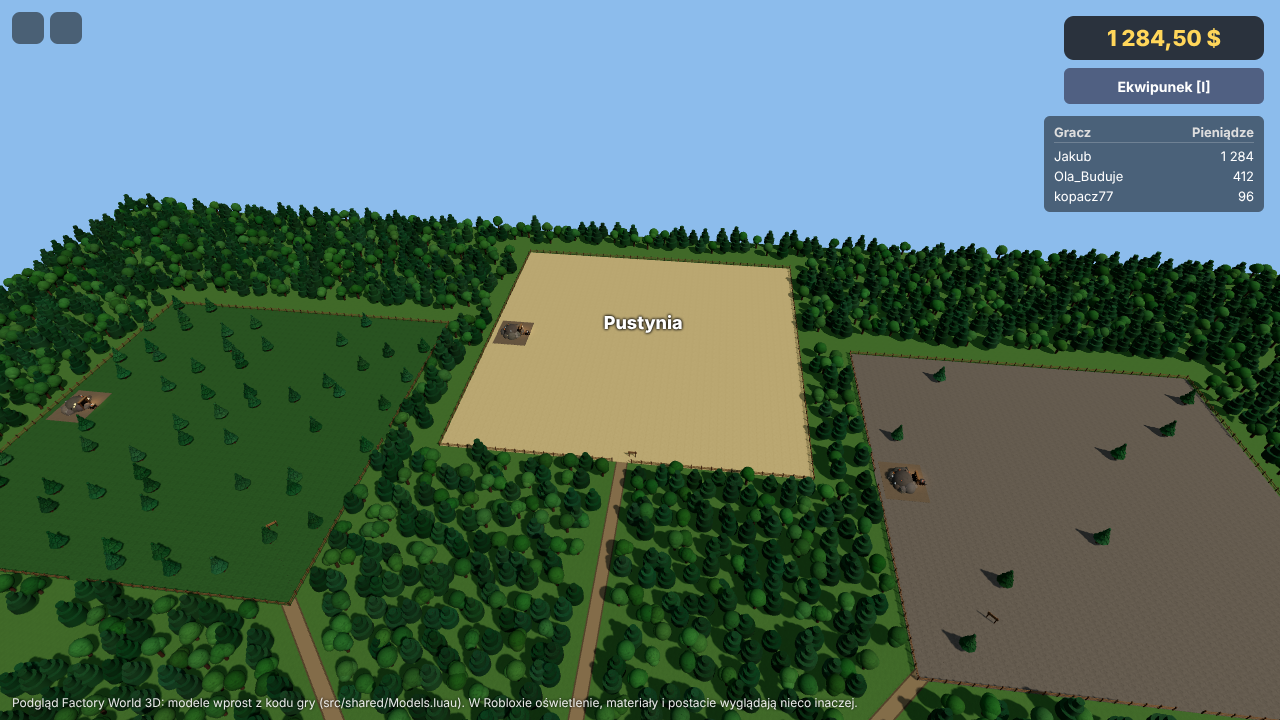
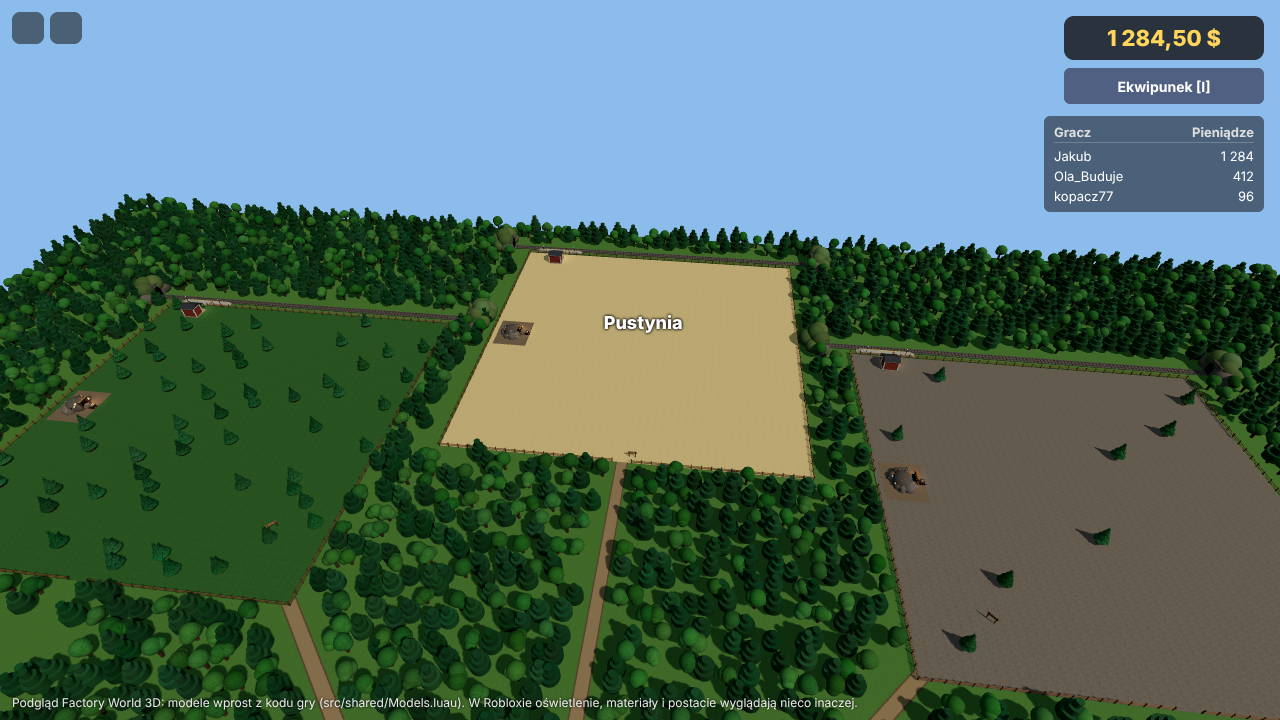
Add trains between a player's own plots
Every plot now has its railway station and track. The station window
lists the player's other plots first: a train there takes 20 s and
costs the fixed 1 $, and its goods reach that plot's station even when
the plot is not shown. Routes start from the plot they were added on and
can go to an own plot; a hidden plot is worked out up to now before a
train leaves it. Trains from other players still arrive at the home
plot. Existing bought plots get their station when the profile loads.

Claude-Session: https://claude.ai/code/session_015q7rLHNJ66CFDjTGWXE1aJ

diff --git a/tools/preview/scene.js b/tools/preview/scene.js
@@ -62,14 +62,11 @@ function plot(index, opts = {}) {
   const [cx, cz] = center(index);
   const objects = [];
   if (!opts.biome) objects.push({ at: [cx, 0, cz], parts: [block([L.Size, 1, L.Size], [0, -0.45, 0], [116, 158, 78], "Grass")] });
-  if (opts.biome) {
-    // A bought plot shown on the player's place (Plots.buildPlot): its ground, no railway.
-    objects.push({ at: [cx, 0, cz], parts: lua.call(`Models.PlotDecor(${index * 100}, PlotLayout.Size, PlotLayout.OpenSides(${index}), nil, Lands.Biomes.${opts.biome})`) });
-  } else {
-    objects.push({ at: [cx, 0, cz], parts: lua.call(`Models.PlotDecor(${index * 100}, PlotLayout.Size, PlotLayout.OpenSides(${index}), PlotLayout.FenceGaps())`) });
-    objects.push({ at: [cx, 0, cz], parts: lua.call(`Models.Railway(PlotLayout.Rail, PlotLayout.StationSpan())`) });
-  }
-  if (!opts.biome) {
+  // A bought plot shown on the player's place (Plots.buildPlot) has its biome's ground.
+  const biome = opts.biome ? `Lands.Biomes.${opts.biome}` : "nil";
+  objects.push({ at: [cx, 0, cz], parts: lua.call(`Models.PlotDecor(${index * 100}, PlotLayout.Size, PlotLayout.OpenSides(${index}), PlotLayout.FenceGaps(), ${biome})`) });
+  objects.push({ at: [cx, 0, cz], parts: lua.call(`Models.Railway(PlotLayout.Rail, PlotLayout.StationSpan())`) });
+  {
     const s = lua.call("PlotLayout.Station");
     const [x, z] = lua.call(`{ PlotLayout.TileCenter(${s.x}, ${s.z}, ${s.size}) }`);
     objects.push({ at: [cx + x, 0, cz + z], yaw: -Math.PI / 2, parts: lua.call("Models.Station()") });
@@ -555,17 +552,18 @@ function views() {
     objects.push({ at: [cx + R.x, 0, cz + R.stop], parts: lua.call(`Models.Train(3, json_decode_cargo)`.replace("json_decode_cargo", `{ ${cargo.map((c) => `{ ${c.join(",")} }`).join(",")} }`)) });
     const stock = [["coal", 340], ["iron_ingot", 120], ["planks", 85], ["stone", 600], ["sand", 45]];
     const stockTiles = stock.map(([id, n]) => slot(id, String(n), { size: 52, stroke: id === "iron_ingot" ? GOLD : null })).join("");
-    const prow = (n, km, s, on) => `<div class="row" style="height:34px;${on ? "background:#6e5c28" : ""}"><span style="flex:1;font-size:14px"><b>${n}</b> &nbsp; ${km} km, pociąg jedzie ${s} s</span><span class="btn ${on ? "alt" : ""}" style="width:90px;text-align:center">${on ? "Wybrany" : "Wybierz"}</span></div>`;
+    const prow = (n, km, s, on) => `<div class="row" style="height:34px;${on ? "background:#6e5c28" : ""}"><span style="flex:1;font-size:14px"><b>${n}</b> &nbsp; ${km ? km + " km, " : ""}pociąg jedzie ${s} s</span><span class="btn ${on ? "alt" : ""}" style="width:90px;text-align:center">${on ? "Wybrany" : "Wybierz"}</span></div>`;
     out["13-kolej"] = { objects, camera: { pos: [cx + 78, 20, cz - 40], look: [cx + 112, 3, cz - 104], fov: 60 }, shadowRadius: 90, hud: "1 284,50 $", caption,
       overlay: `<div class="win" style="width:500px;left:16px;top:60px;bottom:30px;overflow:hidden"><div class="hd">Stacja kolejowa<span class="x">✕</span></div><div class="bd">
         ${tabs(["Magazyn", "Wyślij", "Trasy (1)"], "Wyślij")}
-        <div class="muted" style="font-size:13px">Komu: znajdź gracza (na dowolnym serwerze) i wybierz go.</div>
+        <div class="muted" style="font-size:13px">Komu: na inną swoją działkę albo do gracza, którego znajdziesz po nazwie (na dowolnym serwerze).</div>
         <div style="display:flex;gap:8px"><span style="width:220px;height:30px;border-radius:6px;background:#181b21;border:1px solid #5a6273;padding:6px 8px;box-sizing:border-box;color:#a0a6b2;font-size:15px">Nazwa gracza</span><span class="btn" style="width:90px;text-align:center;padding:6px 0">Szukaj</span></div>
-        ${prow("Ola_Buduje", 640, 32, true)}${prow("kopacz77", 1210, 61, false)}
+        ${prow("Twoja działka: Góry", 0, lua.call("Rail.OwnTrip"), true)}${prow("Ola_Buduje", 640, 32, false)}${prow("kopacz77", 1210, 61, false)}
         <div class="muted" style="font-size:13px">Co: kliknij towar na stacji.</div>
         <div style="display:flex;gap:6px">${stockTiles}</div>
-        <div class="row" style="height:44px"><span style="width:80px;height:30px;border-radius:6px;background:#181b21;border:1px solid #5a6273;display:flex;align-items:center;justify-content:center">120</span><span class="gold" style="flex:1;font-size:14px">Opłata ${lua.call("Money.Format(Rail.FeeCents(640, 120))")}, 32 s</span><span class="btn" style="width:150px;text-align:center;padding:6px 0">Wyślij pociągiem</span></div>
+        <div class="row" style="height:44px"><span style="width:80px;height:30px;border-radius:6px;background:#181b21;border:1px solid #5a6273;display:flex;align-items:center;justify-content:center">120</span><span class="gold" style="flex:1;font-size:14px">Opłata ${lua.call("Money.Format(Rail.FeeCents(0, 120))")}, ${lua.call("Rail.OwnTrip")} s</span><span class="btn" style="width:150px;text-align:center;padding:6px 0">Wyślij pociągiem</span></div>
         <b style="font-size:15px">Pociągi w drodze</b>
+        <div style="font-size:13px;color:${GREEN}">⬅ od działki Góry: 400 × ${name("iron_ore")} (za 12 s)</div>
         <div style="font-size:13px;color:${GREEN}">⬅ od kopacz77: 200 × ${name("coal")} (za 41 s)</div>
         <div style="font-size:13px">➡ do Ola_Buduje: 60 × ${name("planks")} (dojedzie za 12 s)</div>
       </div></div>` };

diff --git a/README.md b/README.md
@@ -26,7 +26,7 @@ Zrzuty pochodzą z podglądu w przeglądarce (`tools/preview/`), który rysuje d
 | 2. Logistyka | Działka 232 × 232 study z siatką budowania na całości (56 × 56 pól po 4 study; wszystko na działce stoi na jej polach), tryb budowania (stawianie, obracanie, rozbiórka, linie siatki widoczne tylko przy budowaniu), taśmociągi (2 pasy, zakręty, dołączanie z boku, przeciąganie skręca taśmę), podajniki, drewniane skrzynie (8 miejsc po 100 szt.), piec na siatce karmiony podajnikami, drzewa jak w 2D (ścięte znika, 30% na sadzonkę, sadzonka rośnie 10 min), nowe przepisy na stole (taśmociąg ×4, podajnik, skrzynia), gęsty las między działkami i wokół placu (tylko ozdoba, nie da się go ściąć ani w nim budować; ścieżki do bram wolne) | gotowe |
 | 3. Przetwórstwo | Maszyny na siatce (2 × 2 pola, odlewnia 3 × 3) z przepisami i czasami z gry 2D: tartak (deski, belki, pellet), warsztat kamieniarski (bloki), kruszarka (piasek, kruszywo rud: 3 z 2 rud, w piecu topi się szybciej), odlewnia na węgiel, drewno albo pellet (brąz, stal, cegły); maszyna robi wsad za wsadem także pod nieobecność gracza, podajniki ją karmią i opróżniają. Badania (jedno naraz, koszt od razu, czas jak w 2D): Gospodarka leśna, Kamieniarstwo, Kruszenie, Metalurgia odblokowują maszyny na stole i u handlarza. Od etapu 5 kruszarka potrzebuje prądu | gotowe |
 | 4. Handel | Rynek graczy na wszystkich serwerach (**M**): oferty sprzedaży i zamówienia jak w 2D (towar albo pieniądze czekają w ofercie, inni biorą część albo całość, zarobek przychodzi sam także pod nieobecność; do 20 ofert każdego rodzaju, do 10 000 szt. i 1 000 000 $ za sztukę, rzeczy niezbadane można tylko sprzedawać). Wydarzenia rynkowe u handlarza co 6 godzin (Boom na stal, Boom budowlany, Sroga zima, Gorączka miedzi, Moda na brąz, Gorączka złota, Zalew kamienia, Wyprzedaż maszyn), takie same na każdym serwerze, oraz codzienne wahania cen skupu do 10%; handlarz zawsze płaci najwyżej 90% swojej ceny sprzedaży | gotowe |
-| 5. Świat | **Prąd (gotowe):** generator parowy 2 × 2 (100 kW, węgiel 200 s, drewno 50 s, pellet 40 s przy pełnej mocy, do 50 sztuk; paliwo wkłada się w jego oknie albo podajnikiem), słupy energetyczne (zasilają pola 5 × 5 wokół siebie, łączą się kablem ze słupami do 7 pól dalej w jedną sieć), kruszarka pobiera 40 kW; przy za małej mocy wszystkie maszyny sieci pracują wolniej, bez prądu stoją i pamiętają postęp wsadu. Generator (stół: 10 kamieni, 8 sztabek żelaza, 4 sztabki miedzi) i słupy (×2: 2 drewna, 1 sztabka miedzi). Liczone na żądanie także pod nieobecność gracza. **Pociągi (gotowe):** każda działka ma stację kolejową (3 × 3 pola przy wschodnim płocie, nie da się jej rozebrać) z peronem i torem za płotem, który z obu stron znika w tunelu. Towar ładuje się na stację ręcznie albo podajnikami (do 10 000 szt. jednego towaru), podajniki też ją rozładowują. Wysyłka do innego gracza (szukanie po nazwie, na dowolnym serwerze): opłata 1 $ + 1 ¢ za sztukę na 100 km, czas 5 s na 100 km (najmniej 10 s), jak w 2D; towar czeka na stacji odbiorcy, także gdy go nie ma w grze. Trasy (do 5): pociąg co 1, 5, 15 albo 60 minut z wybranymi towarami albo wszystkim (do 2000 szt.), póki właściciel jest w grze. Pociąg widać, jak przyjeżdża z tunelu, staje przy peronie i odjeżdża. **Stół warsztatowy** jako przedmiot (u handlarza albo z 20 drewna i 5 gwoździ) do postawienia na działce. **Działki z biomami (gotowe, L):** poza pierwszą działką (Łąka) można kupić po jednej działce Las (60 drzew, kopalnia z dużą ilością węgla), Pustynia (bez drzew; piasek, miedź, cyna, czasem złoto), Góry (8 drzew; żelazo, srebro, węgiel) i Tundra (16 ośnieżonych świerków; cyna, srebro, złoto). Biom wybiera się przy zakupie, a działki kosztują 50 000 $, 500 000 $, 5 000 000 $ i każda następna 1 000 000 000 $. Na serwerze gracz ma jedno miejsce na działkę: w oknie *Moje działki* wybiera, którą tam pokazać, a gra buduje ją w tym samym miejscu z jej ziemią, kopalnią, siatką, piecami i maszynami. Działki, których nie widać, liczą się dalej i po powrocie wszystko jest nadrobione. Stacja kolejowa zostaje na Łące (trasy działają też, gdy pokazana jest inna działka). Odległości pociągów nadal liczą się w wymyślonym świecie 2400 × 1200 km. **Dalej:** pociągi między własnymi działkami, spółki, lepsze modele z Blendera | w toku |
+| 5. Świat | **Prąd (gotowe):** generator parowy 2 × 2 (100 kW, węgiel 200 s, drewno 50 s, pellet 40 s przy pełnej mocy, do 50 sztuk; paliwo wkłada się w jego oknie albo podajnikiem), słupy energetyczne (zasilają pola 5 × 5 wokół siebie, łączą się kablem ze słupami do 7 pól dalej w jedną sieć), kruszarka pobiera 40 kW; przy za małej mocy wszystkie maszyny sieci pracują wolniej, bez prądu stoją i pamiętają postęp wsadu. Generator (stół: 10 kamieni, 8 sztabek żelaza, 4 sztabki miedzi) i słupy (×2: 2 drewna, 1 sztabka miedzi). Liczone na żądanie także pod nieobecność gracza. **Pociągi (gotowe):** każda działka ma stację kolejową (3 × 3 pola przy wschodnim płocie, nie da się jej rozebrać) z peronem i torem za płotem, który z obu stron znika w tunelu. Towar ładuje się na stację ręcznie albo podajnikami (do 10 000 szt. jednego towaru), podajniki też ją rozładowują. Wysyłka do innego gracza (szukanie po nazwie, na dowolnym serwerze): opłata 1 $ + 1 ¢ za sztukę na 100 km, czas 5 s na 100 km (najmniej 10 s), jak w 2D; towar czeka na stacji odbiorcy, także gdy go nie ma w grze. Trasy (do 5): pociąg co 1, 5, 15 albo 60 minut z wybranymi towarami albo wszystkim (do 2000 szt.), póki właściciel jest w grze. Pociąg widać, jak przyjeżdża z tunelu, staje przy peronie i odjeżdża. **Stół warsztatowy** jako przedmiot (u handlarza albo z 20 drewna i 5 gwoździ) do postawienia na działce. **Działki z biomami (gotowe, L):** poza pierwszą działką (Łąka) można kupić po jednej działce Las (60 drzew, kopalnia z dużą ilością węgla), Pustynia (bez drzew; piasek, miedź, cyna, czasem złoto), Góry (8 drzew; żelazo, srebro, węgiel) i Tundra (16 ośnieżonych świerków; cyna, srebro, złoto). Biom wybiera się przy zakupie, a działki kosztują 50 000 $, 500 000 $, 5 000 000 $ i każda następna 1 000 000 000 $. Na serwerze gracz ma jedno miejsce na działkę: w oknie *Moje działki* wybiera, którą tam pokazać, a gra buduje ją w tym samym miejscu z jej ziemią, kopalnią, siatką, piecami i maszynami. Działki, których nie widać, liczą się dalej i po powrocie wszystko jest nadrobione. **Pociągi między własnymi działkami (gotowe):** każda działka ma swoją stację z torem. W oknie stacji na liście „Komu” są najpierw twoje inne działki: pociąg jedzie 20 s i kosztuje tylko 1 $, a towar trafia na stację tamtej działki, także gdy jej nie widać. Trasy działają tak samo (np. ruda z Gór co 5 minut na Łąkę) i ruszają ze stacji działki, na której je dodano; działka, której nie widać, jest przed odjazdem przeliczona do teraz. Pociągi od innych graczy przyjeżdżają na stację Łąki. Odległości pociągów nadal liczą się w wymyślonym świecie 2400 × 1200 km. **Dalej:** spółki, lepsze modele z Blendera | w toku |
 
 ## Uruchomienie w Roblox Studio
 
